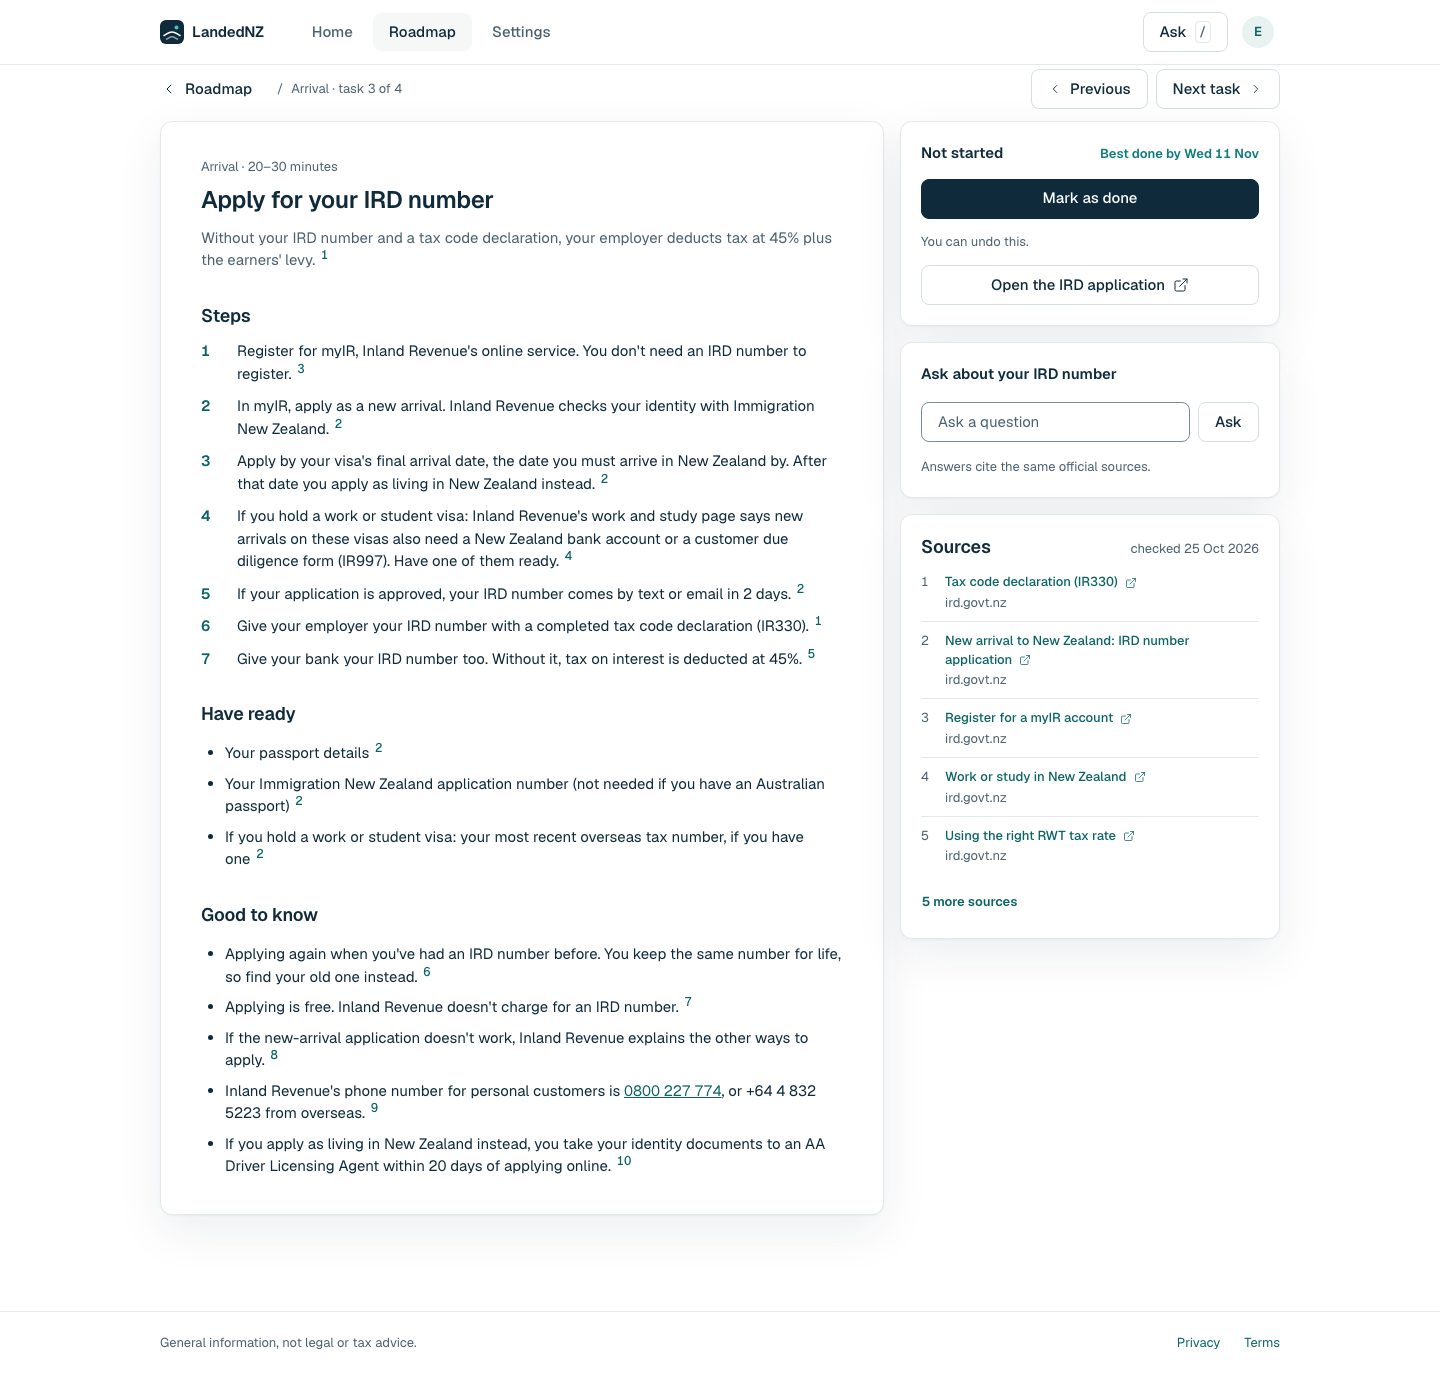
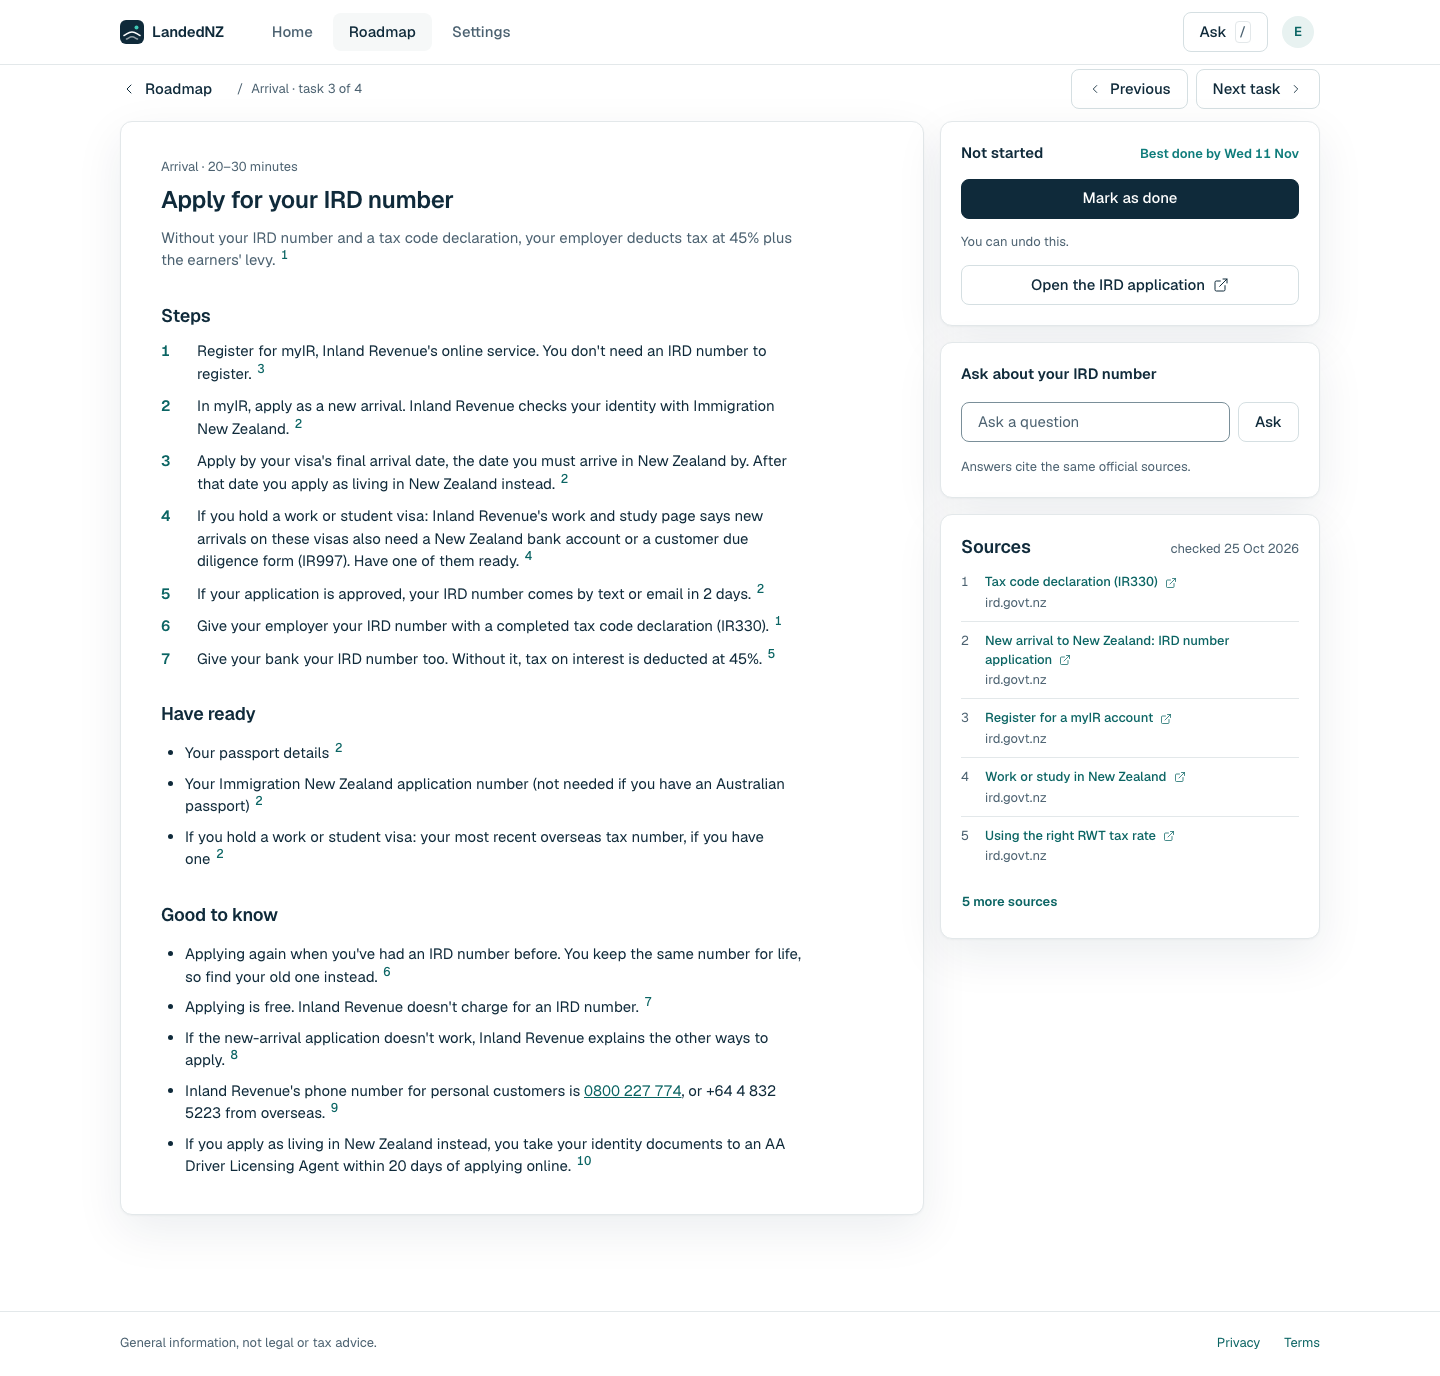
fix(web): keep flags on the current stage, widen the signed-in shell

diff --git a/apps/web/src/components/route/route-track.tsx b/apps/web/src/components/route/route-track.tsx
@@ -14,11 +14,11 @@ const HEIGHT = { compact: 112, tall: 104 }
 export function RouteTrack({ route, arrivalDate, now, variant }: { route: RouteView; arrivalDate: string; now: Date; variant: 'compact' | 'tall' }) {
   const gid = `track-walk-${useId().replace(/:/g, '')}`
   const h = HEIGHT[variant]
-  const { x: dx, todayX, label, summary, passed } = routeProgress(route, arrivalDate, now)
+  const { x: dx, walked, todayX, label, summary, passed } = routeProgress(route, arrivalDate, now)
   const phone = phoneStages(route, arrivalDate, now)
   const profile = XS.map(x => [x, terrainY(x)] as const)
   const line = "M" + profile.map(([x, y]) => pt(x, y)).join(" L")
-  const walked = "M" + [...profile.filter(([x]) => x <= dx), [dx, terrainY(dx)] as const].map(([x, y]) => pt(x, y)).join(" L")
+  const walkedPath = "M" + [...profile.filter(([x]) => x <= walked), [walked, terrainY(walked)] as const].map(([x, y]) => pt(x, y)).join(" L")
   const contour = (off: number) => "M" + profile.map(([x, y]) => pt(x, y + off)).join(" L")
   const [stage, ...more] = summary.split(' · ') // the board bolds the stage name
   const edge = dx > 900 ? "end" : dx < 100 ? "start" : undefined
@@ -45,9 +45,9 @@ export function RouteTrack({ route, arrivalDate, now, variant }: { route: RouteV
             </linearGradient>
           </defs>
           {[12, 24].map(off => <path key={off} d={contour(off)} className="track-contour" />)}
-          <path d={`${walked} L${dx},${h} L0,${h} Z`} fill={`url(#${gid})`} />
+          <path d={`${walkedPath} L${walked},${h} L0,${h} Z`} fill={`url(#${gid})`} />
           <path d={line} className="track-ahead" />
-          <path d={walked} className="track-walked" />
+          <path d={walkedPath} className="track-walked" />
           {todayX !== null && <path d={`M${todayX} 0 V${h}`} className="track-today" />}
           {arcs.map(d => <path key={d} d={d} className="track-arc" />)}
         </svg>

diff --git a/apps/web/src/app/globals.css b/apps/web/src/app/globals.css
@@ -59,6 +59,7 @@
   --shadow-rail-ring: 0 0 0 5px rgba(63, 201, 183, 0.18);
   --shadow-chosen: inset 0 0 0 1px #0E7C7B;
 
+  --container-app: 1248px; /* signed-in shell: 1200 content, edge at 120 px at 1440 */
   --container-page: 1168px; /* 1120 content + 24 padding each side: the edge sits at 160 px at 1440 */
   --container-hero-title: 560px;
   --container-hero-lede: 520px;
@@ -112,12 +113,17 @@
 /* Page container: 1120 px content, 24 px side padding (16 px on phones) */
 @utility container-page {
   width: 100%;
-  max-width: var(--container-page);
+  max-width: var(--page-w, var(--container-page));
   margin-inline: auto;
   padding-inline: 24px;
   @media (width < 561px) {
     padding-inline: 16px;
   }
+}
+
+/* Signed-in shell: the wider container */
+@utility container-app {
+  --page-w: var(--container-app);
 }
 
 /* Route waypoints (12 px; current 16 px; Home beads 8 px on phones) and the rail (ui_parts.ROUTE_CSS) */

diff --git a/apps/web/src/lib/route-progress.ts b/apps/web/src/lib/route-progress.ts
@@ -91,7 +91,7 @@ export function routeProgress(route: RouteView, arrivalDate: string, now: Date) 
   const tail = day < 1 ? `by ${shortDay(arrivalDate)}` : left ? `${plural(left, 'day')} left` : ''
   const summary = [name, `${cur?.done ?? 0} of ${cur?.total ?? 0}`, tail].filter(Boolean).join(' · ')
 
-  return { x, todayX: todayX(arrivalDate, now), label, summary, passed: TRACK_FLAGS.map(fx => fx <= x) }
+  return { x, todayX: todayX(arrivalDate, now), label, summary, walked: youX(route), passed: TRACK_FLAGS.map(fx => fx <= youX(route)) }
 }
 
 // The phone row: the stage behind, the stage now with its days left, the stage ahead

diff --git a/apps/web/src/components/chrome/public-footer.tsx b/apps/web/src/components/chrome/public-footer.tsx
@@ -3,7 +3,7 @@ export function PublicFooter({ app }: { app?: boolean }) {
   const phone = app ? "max-narrow:mb-14 max-narrow:min-h-9 max-narrow:py-0" : ""
   return (
     <footer className="border-t border-hairline">
-      <div className={`container-page flex min-h-16 flex-wrap max-narrow:flex-nowrap items-center justify-between gap-x-6 gap-y-2 py-4 ${phone}`}>
+      <div className={`container-page ${app ? "container-app" : ""} flex min-h-16 flex-wrap max-narrow:flex-nowrap items-center justify-between gap-x-6 gap-y-2 py-4 ${phone}`}>
         <span className="text-small text-muted">
           {app ? (
             <>

diff --git a/apps/web/src/components/settings/settings-screen.tsx b/apps/web/src/components/settings/settings-screen.tsx
@@ -40,7 +40,7 @@ export function SettingsScreen({ user }: { user: User }) {
   return (
     <>
       <AppHeader active="settings" back={editing ? { href: "/settings", label: "Settings" } : undefined} user={user} onAsk={() => router.push("/app/roadmap?ask=1")} />
-      <main className="container-page py-6 max-narrow:py-4">
+      <main className="container-page container-app py-6 max-narrow:py-4">
         <div className="grid grid-cols-settings gap-4 max-split:grid-cols-1 max-narrow:gap-2.5">
           {profile === "loading" || profile === "down" ? (
             <div className="flex flex-col gap-4">

diff --git a/apps/web/src/components/chrome/app-header.tsx b/apps/web/src/components/chrome/app-header.tsx
@@ -53,7 +53,7 @@ export function AppHeader({
   return (
     <>
     <header className="border-b border-hairline">
-      <div className="container-page flex h-16 items-center gap-8 max-compact:gap-2 max-narrow:h-14">
+      <div className="container-page container-app flex h-16 items-center gap-8 max-compact:gap-2 max-narrow:h-14">
         {back && (
           <Link href={back.href} className="hidden min-h-11 items-center gap-1 font-medium text-ink no-underline hover:no-underline max-narrow:flex">
             <span aria-hidden="true">‹</span> {back.label}

diff --git a/apps/web/src/components/workspace/roadmap-view.tsx b/apps/web/src/components/workspace/roadmap-view.tsx
@@ -264,7 +264,7 @@ export function RoadmapScreen({ user }: { user: { name: string; initials: string
         <Loading />
       ) : (
         <>
-          <main className={cn("container-page", selectedTaskId ? "pb-24 max-narrow:pb-40" : "py-6")}>
+          <main className={cn("container-page container-app", selectedTaskId ? "pb-24 max-narrow:pb-40" : "py-6")}>
             {state === "down" ? (
               <ApiDown onRetry={() => load()} />
             ) : selectedTaskId ? (

diff --git a/apps/web/src/app/app/loading.tsx b/apps/web/src/app/app/loading.tsx
@@ -6,7 +6,7 @@ import { Skeleton } from "@/components/ui/skeleton"
 export default function Loading() {
   return (
     <>
-      <main aria-busy="true" className="container-page flex flex-col gap-4 py-6">
+      <main aria-busy="true" className="container-page container-app flex flex-col gap-4 py-6">
         <span className="sr-only">Loading</span>
         <Skeleton className="h-8 w-48" />
         <div className="grid grid-cols-settings gap-4 max-split:grid-cols-1">

diff --git a/apps/web/src/lib/route-progress.test.ts b/apps/web/src/lib/route-progress.test.ts
@@ -71,7 +71,7 @@ describe('routeProgress', () => {
 
   it("on day 5 the pin reads You're here", () => {
     const p = routeProgress(week1Open(), ARRIVAL, DAY_5)
-    expect(p).toMatchObject({ x: 270, todayX: 400, label: "You're here", passed: [true, true, false, false, false] })
+    expect(p).toMatchObject({ x: 270, todayX: 400, label: "You're here", passed: [true, false, false, false, false] })
     expect(p.summary).toBe('Arrival · 3 of 4')
   })
 

diff --git a/apps/web/src/components/workspace/home-view.tsx b/apps/web/src/components/workspace/home-view.tsx
@@ -218,7 +218,7 @@ export function HomeScreen({ user }: { user: { name: string; initials: string } 
         <Loading />
       ) : (
         <>
-          <main className="container-page py-6">
+          <main className="container-page container-app py-6">
             {state === "down" ? <ApiDown onRetry={load} /> : <HomeView {...state} />}
           </main>
           <PublicFooter app />

diff --git a/apps/web/src/app/app/error.tsx b/apps/web/src/app/app/error.tsx
@@ -4,7 +4,7 @@ import { ApiDown } from "@/components/chrome/api-down"
 
 export default function Error({ retry }: { error: unknown; retry: () => void }) {
   return (
-    <main className="container-page pt-12 pb-24">
+    <main className="container-page container-app pt-12 pb-24">
       <ApiDown onRetry={retry} />
     </main>
   )

diff --git a/apps/web/src/app/settings/error.tsx b/apps/web/src/app/settings/error.tsx
@@ -4,7 +4,7 @@ import { ApiDown } from "@/components/chrome/api-down"
 
 export default function Error({ retry }: { error: unknown; retry: () => void }) {
   return (
-    <main className="container-page pt-12 pb-24">
+    <main className="container-page container-app pt-12 pb-24">
       <ApiDown onRetry={retry} />
     </main>
   )
